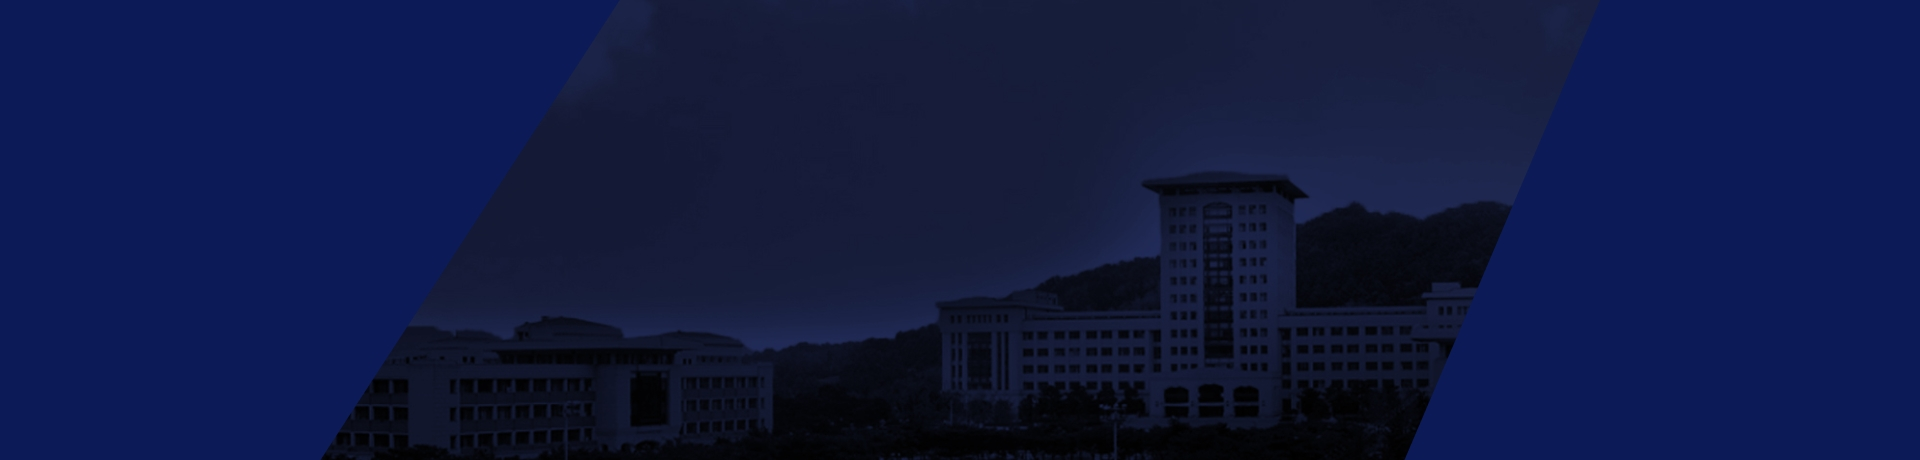
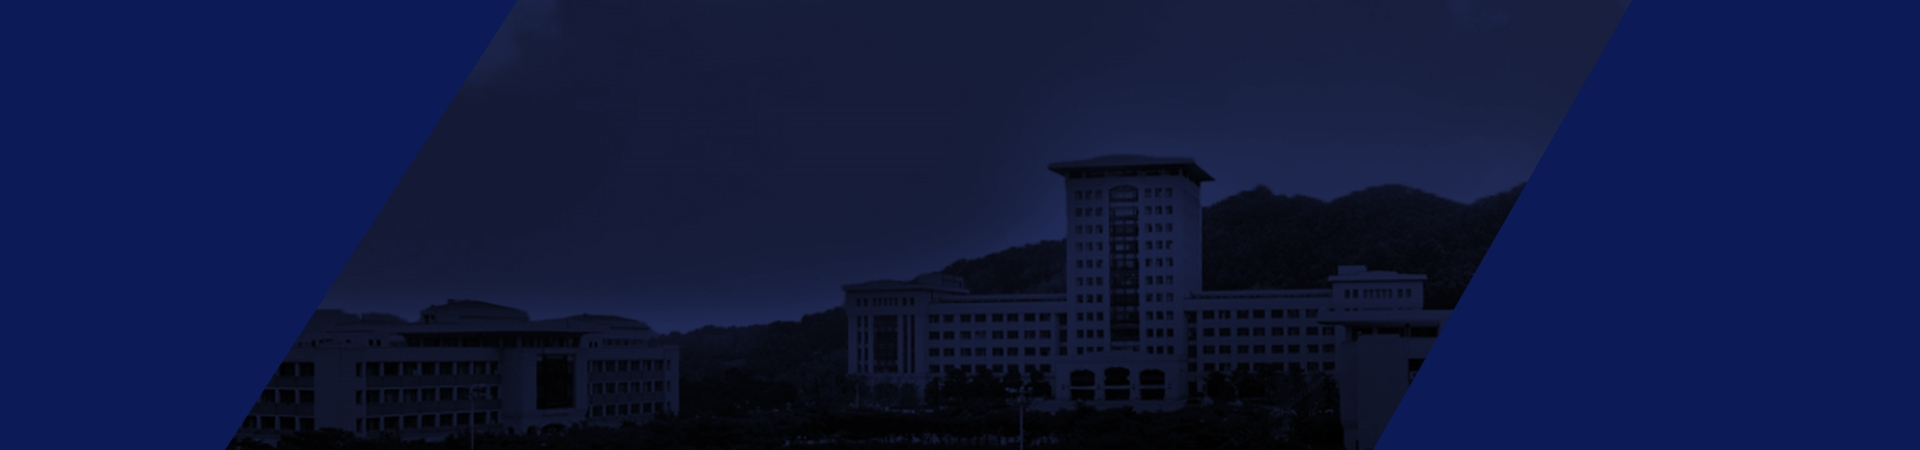
main page struct done

Changed region(s): [[0.0938, 0.0, 0.8125, 1.0], [0.4375, 0.9644, 0.5938, 1.0], [0.8125, 0.0, 0.8438, 0.1244]]

diff --git a/src/pages/Home/components/HomeBanner/index.tsx b/src/pages/Home/components/HomeBanner/index.tsx
@@ -61,6 +61,9 @@ const HomeBanner: React.VFC = () => {
             }
             alt="banner"
           />
+          {size.width > 375 && (
+            <ImageCover src={"img/banner2_cover.jpeg"} alt="banner cover" />
+          )}
         </ImageBox>
         <ImageBox>
           <Image
@@ -69,6 +72,9 @@ const HomeBanner: React.VFC = () => {
             }
             alt="banner2"
           />
+          {size.width > 375 && (
+            <ImageCover src={"img/banner1_cover.jpeg"} alt="banner2 cover" />
+          )}
         </ImageBox>
       </Carousel>
     </Wrapper>
@@ -100,6 +106,12 @@ const Image = styled.img`
   object-fit: contain;
 `;
 
+const ImageCover = styled.img`
+  height: 400px;
+  object-fit: cover;
+  position: absolute;
+`;
+
 export const CoverContent = styled.span`
   display: none;
   ${mediaQueries(BREAKPOINT_BIGGER_THAN_PC)} {
@@ -112,7 +124,6 @@ export const CoverContent = styled.span`
 export const CoverContentBox = styled.div`
   ${mediaQueries(BREAKPOINT_BIGGER_THAN_PC)} {
     max-width: 1280px;
-    /* margin:0 auto; */
     text-align: start;
     position: absolute;
     top: 30%;

diff --git a/src/pages/Home/components/HomeBNews/index.tsx b/src/pages/Home/components/HomeBNews/index.tsx
@@ -54,15 +54,14 @@ const HomeBNews: React.VFC = () => {
 export default HomeBNews;
 
 const Wrapper = styled.div`
+  background-image: url("img/homebnews.jpeg");
+  background-position: center;
   ${mediaQueries(BREAKPOINT_BIGGER_THAN_PC)} {
     min-height: 400px;
     max-width: 1980px;
-    background-image: url("img/homebnews.jpeg");
   }
   ${mediaQueries(BREAKPOINT_PHONE_MEDIUM)} {
     min-height: 400px;
-    background-image: url("img/homebnews.jpeg");
-    background-size: contain;
   }
 `;
 const Content = styled.div`

diff --git a/src/pages/Home/components/HomeSWNews/index.tsx b/src/pages/Home/components/HomeSWNews/index.tsx
@@ -29,6 +29,7 @@ export const Wrapper = styled.div`
     height: 500px;
     max-width: 1980px;
     background-image: url("img/homeswnews.jpeg");
+    background-position: center;
   }
 `;
 export const Content = styled.div`
